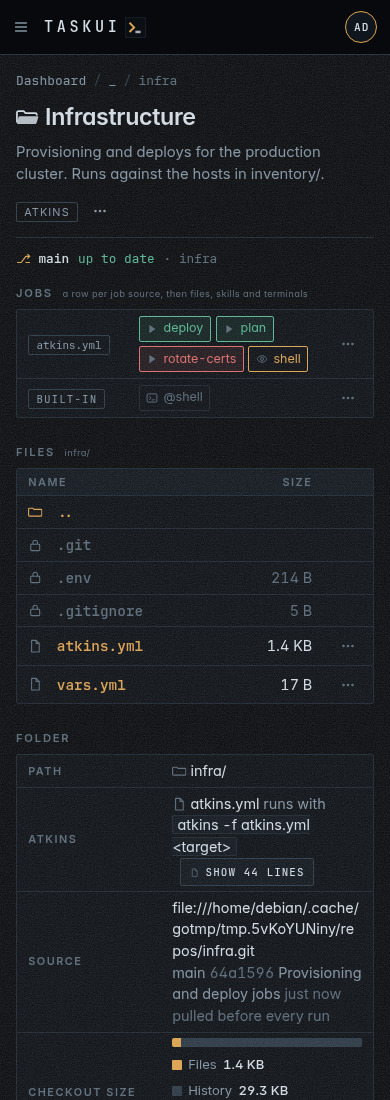
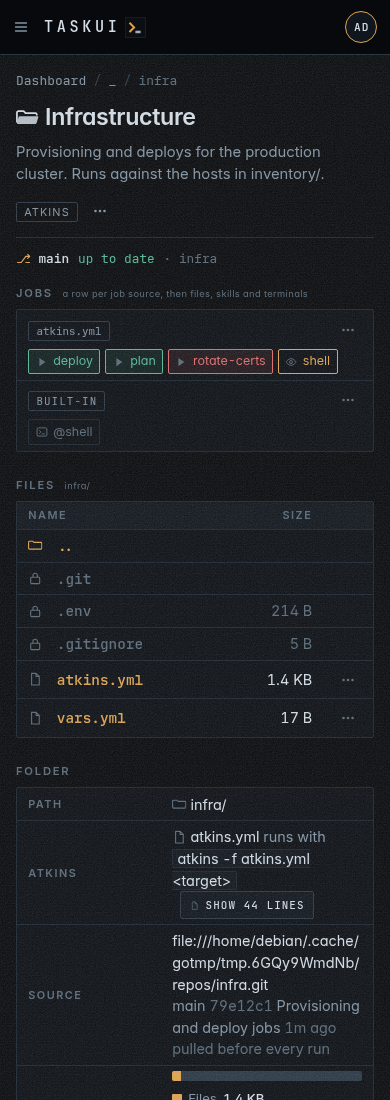
Folder page Jobs on a phone: a named row's label and its [...] on the first line, the buttons wrapping below across the row

diff --git a/frontend/view/assets/css/control.css b/frontend/view/assets/css/control.css
@@ -218,3 +218,30 @@
     }
   }
 }
+
+/* On a phone a named row's label and its [...] share the first line and
+   the buttons wrap below them, across the row. */
+@media (max-width: 720px) {
+  .table.control tr.named {
+    display: grid;
+    grid-template-columns: 1fr auto;
+    align-items: center;
+
+    & td.key {
+      grid-column: 1;
+      width: auto;
+      border-bottom: 0;
+    }
+
+    & td.actions {
+      grid-column: 2;
+      grid-row: 1;
+      border-bottom: 0;
+    }
+
+    & td:not(.key, .actions) {
+      grid-column: 1 / -1;
+      padding-top: 0;
+    }
+  }
+}
